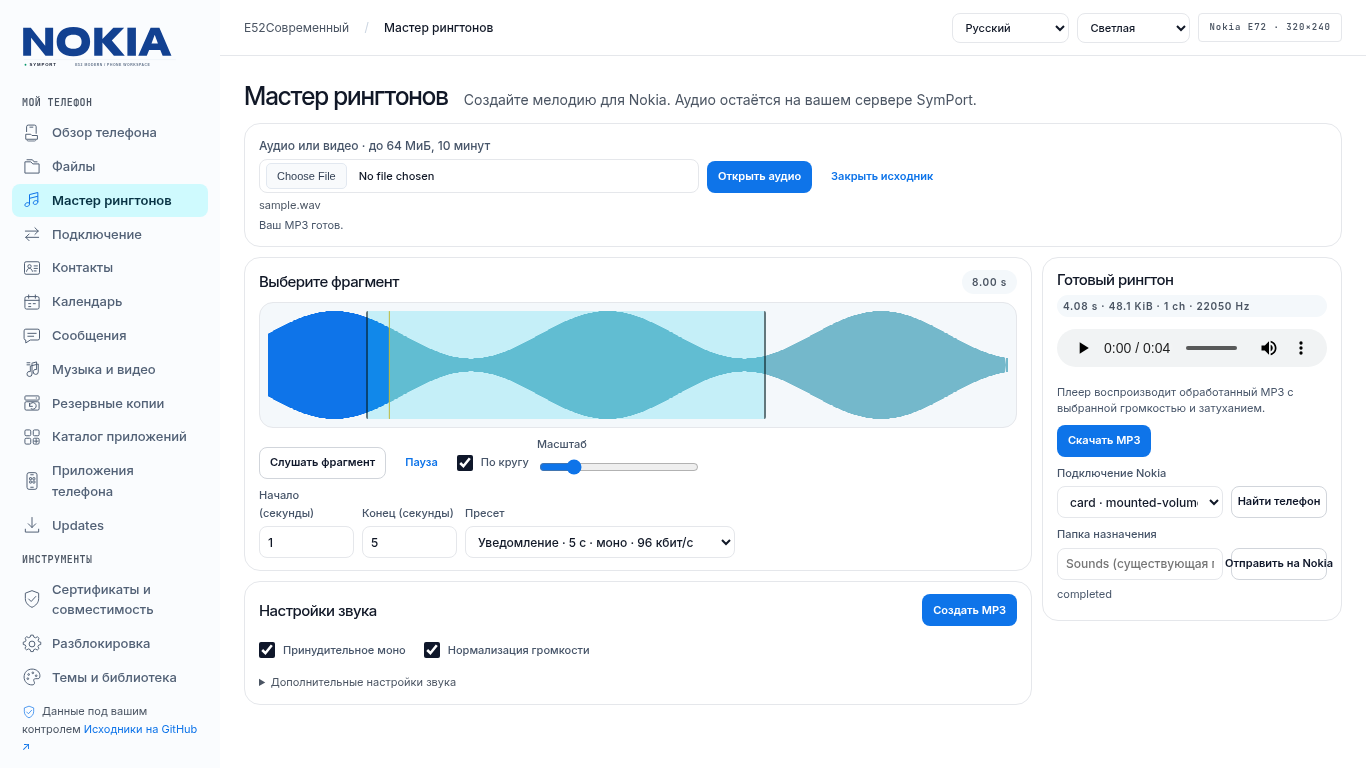
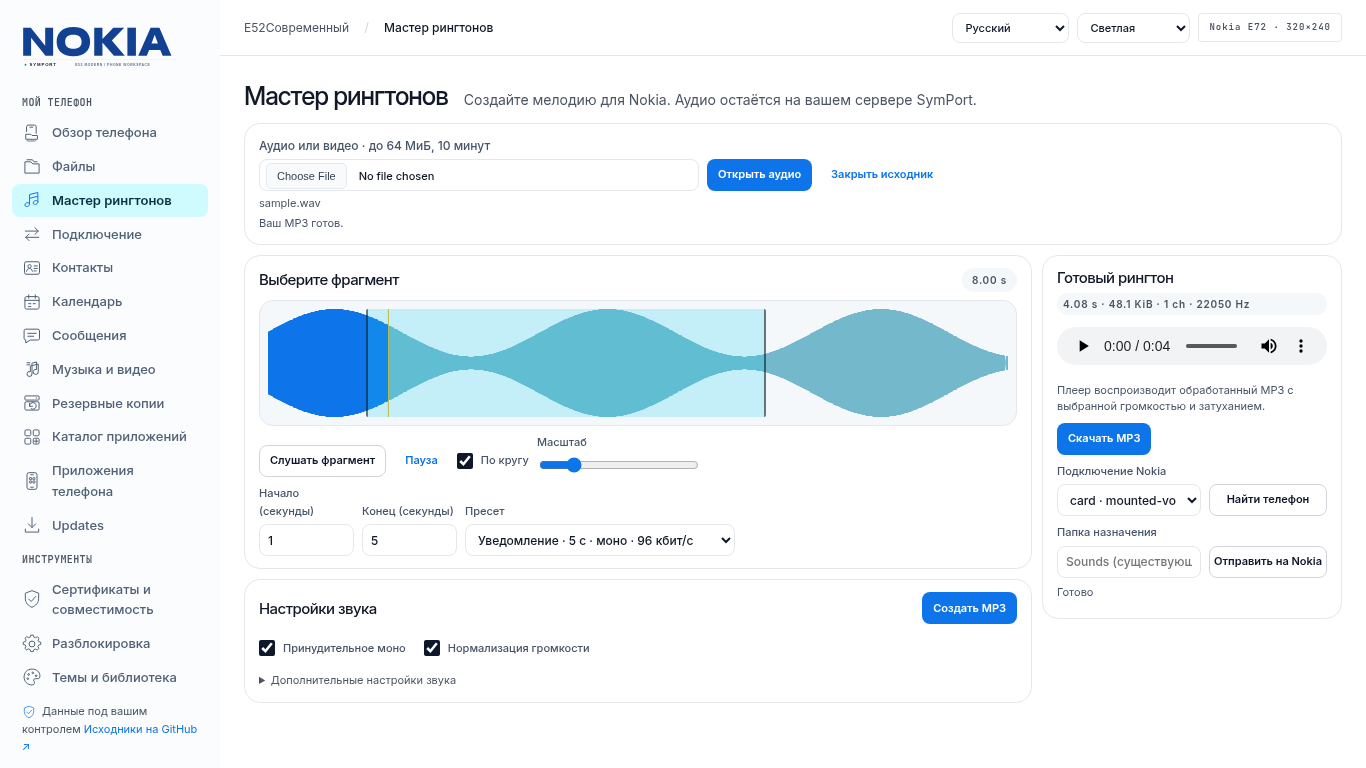
Keep compact controls legible in both interface languages

diff --git a/symport/web_assets/ringtone.css b/symport/web_assets/ringtone.css
@@ -7,3 +7,4 @@
 #ringtone .page-heading{margin-bottom:10px;gap:4px 16px}#ringtone .page-heading h1{font-size:25px}#ringtone .page-heading .eyebrow{display:none}#ringtone>.card{padding:12px 14px;margin-top:10px}#ringtone>.card .form-row{margin:0;gap:8px;align-items:end}#ringtone>.card .grow{flex:0 1 440px;min-width:200px}#ringtone input[type=file]{padding:3px 6px;font-size:11px;height:34px;min-height:34px}#rt-status,#rt-source{font-size:11px;margin:4px 0 0}#rt-source:empty{display:none}
 #rt-editor:not([hidden]){display:grid;grid-template-columns:minmax(0,1fr) 300px;gap:10px;margin-top:10px;align-items:start}#rt-editor:has(#rt-output[hidden]){grid-template-columns:minmax(0,1fr)}#rt-editor>.card{padding:12px 14px;margin:0;min-width:0}#rt-editor .card-head{margin-bottom:8px;gap:8px}#rt-editor h2{font-size:15px;margin:0}#rt-editor .form-row{margin:8px 0 0;gap:8px}#rt-editor .note,#rt-output-state{font-size:11px;margin:6px 0}#rt-wave{min-height:126px;padding:8px}#rt-editor label{font-size:11px}#rt-editor input,#rt-editor select{min-height:32px;height:32px;padding:4px 8px;margin-top:4px;font-size:12px}#rt-editor .btn,#ringtone>.card .btn{min-height:32px;padding:5px 10px;font-size:11px}#rt-editor .rt-check{min-height:32px;white-space:nowrap}#rt-editor .rt-check input{width:16px;height:16px;min-height:16px;margin:0}#rt-editor .form-row>label:has(input[type=number]){flex:0 0 95px;min-width:0}#rt-editor .form-row>label:has(#rt-preset){flex:0 1 270px;min-width:180px}#rt-editor .form-row>label:has(#rt-zoom){flex:0 1 160px;min-width:100px}#rt-zoom{height:20px!important;min-height:20px!important}#rt-editor .rt-options{display:flex;flex-wrap:wrap;gap:8px 18px;align-items:end}#rt-editor .rt-options>label:has(input[type=number]){width:100px}#rt-editor .rt-options>label:has(select){width:105px}.rt-timeline{grid-column:1}.rt-settings{grid-column:1}.rt-result{grid-column:2;grid-row:1/3}#rt-advanced{margin-top:8px}#rt-advanced>summary{font-size:11px;color:var(--muted);cursor:pointer}#rt-advanced .rt-options{padding-top:6px}#rt-output .card-head{display:block}#rt-output-meta{display:block;white-space:normal;font-size:10px;margin-top:6px;padding:3px 6px}#rt-processed{height:38px;margin:4px 0}#rt-output .form-row:has(#rt-device){display:grid;grid-template-columns:minmax(0,1fr) 96px;gap:8px;align-items:end}#rt-output .form-row label{min-width:0}#rt-output .form-row:has(#rt-device) .btn{width:96px}#rt-transfer-status{font-size:11px;margin:6px 0;overflow-wrap:anywhere}
 @media(max-width:1100px){#rt-editor:not([hidden]){grid-template-columns:minmax(0,1fr) 270px}}@media(max-width:900px){#rt-editor:not([hidden]){grid-template-columns:minmax(0,1fr)}.rt-result{grid-column:1;grid-row:auto}#rt-output .form-row:has(#rt-device){max-width:420px}#rt-editor .form-row>label:has(#rt-preset){flex-basis:100%;max-width:300px}}@media(max-width:760px){#ringtone .page-heading p{font-size:12px}#ringtone>.card .grow{flex-basis:100%}#rt-editor .form-row>label:has(#rt-zoom){flex-basis:130px}.rt-timeline{overflow:hidden}}
+#rt-output .form-row:has(#rt-device){grid-template-columns:minmax(0,1fr) 118px}#rt-output .form-row:has(#rt-device) .btn{width:118px}#ringtone input[type=file]{height:32px;min-height:32px}
